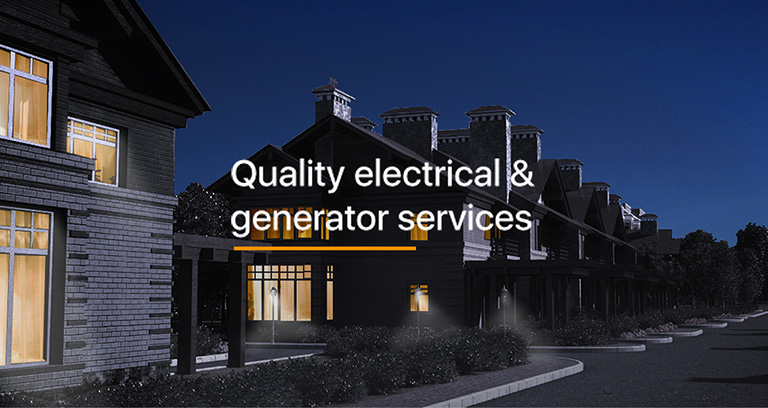
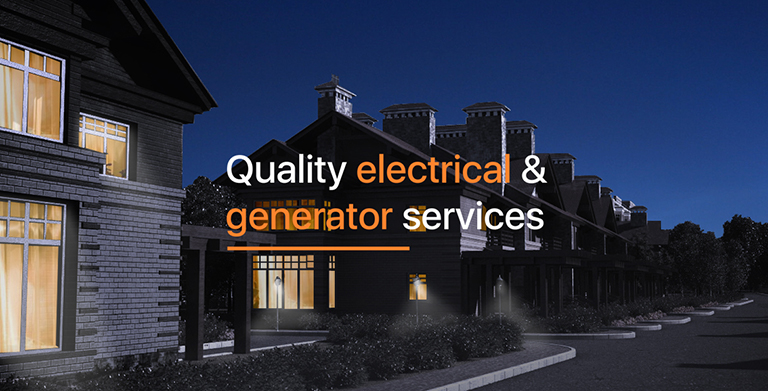
Change promo photo add some changes into text, h1 and other

diff --git a/src/_html_block/reviews/reviews.html b/src/_html_block/reviews/reviews.html
@@ -8,8 +8,9 @@
           <div class="reviews__info">
             <figure class="reviews__img">
               <picture>
+                <source srcset="img/reviews/sahola1024.jpg" media="(max-width: 1024px) and (min-width: 768px)">
                 <source srcset="img/reviews/sahola320.jpg" media="(max-width: 767px)">
-                <source srcset="img/reviews/sahola768.jpg" media="(max-width: 1100px)">
+                <source srcset="img/reviews/sahola320p.jpg" media="(max-width: 767px) and (orientation: portrait)">
                 <img src="img/reviews/sahola.jpg" alt="Olga Sohrau">
               </picture>
             </figure>
@@ -33,9 +34,10 @@
           <div class="reviews__info">
             <figure class="reviews__img">
               <picture>
-                <source srcset="img/reviews/electrika2-320.jpg" media="(max-width: 767px)">
-                <source srcset="img/reviews/electrika2-768.jpg" media="(max-width: 1100px)">
-                <img src="img/reviews/electrika2.jpg" alt="Electrika">
+                <source srcset="img/reviews/electrica2-1024.jpg" media="(max-width: 1024px) and (min-width: 768px)">
+                <source srcset="img/reviews/electrica2-320.jpg" media="(max-width: 767px) and (orientation: landscape)">
+                <source srcset="img/reviews/electrica2-320p.jpg" media="(max-width: 767px) and (orientation: portrait)">
+                <img src="img/reviews/electrica2.jpg" alt="Electrical">
               </picture>
             </figure>
             <a href="http://electricandgeneratorservice.com" rel="nofollow" class="reviews__link reviews__link--info">www.electricandgeneratorservice.com</a>
@@ -56,9 +58,10 @@
           <div class="reviews__info">
             <figure class="reviews__img">
               <picture>
-                <source srcset="img/reviews/electrika320.jpg" media="(max-width: 767px)">
-                <source srcset="img/reviews/electrika768.jpg" media="(max-width: 1100px)">
-                <img src="img/reviews/electrika.jpg" alt="Electrika">
+                <source srcset="img/reviews/electrica-1024.jpg" media="(max-width: 1024px) and (min-width: 768px)">
+                <source srcset="img/reviews/electrica320.jpg" media="(max-width: 767px)">
+                <source srcset="img/reviews/electrica320p.jpg" media="(max-width: 767px) and (orientation: portrait)">
+                <img src="img/reviews/electrica.jpg" alt="Electrical">
               </picture>
             </figure>
             <a href="http://electricandgeneratorservice.com" class="reviews__link reviews__link--info" rel="nofollow">www.electricandgeneratorservice.com</a>

diff --git a/src/_html_block/promo/promo.html b/src/_html_block/promo/promo.html
@@ -1,21 +1,25 @@
 <section class="promo" id="promo">
   <figure class="promo__img">
     <picture class="promo__img-1">
+      <source srcset="img/promo/bg1-1024.jpg" media="(max-width: 1024px) and (min-width: 768px)">
       <source srcset="img/promo/bg1-320.jpg" media="(max-width: 767px) and (orientation: portrait)">
       <source srcset="img/promo/bg1-320land.jpg" media="(max-width: 767px) and (orientation: landscape)">
       <img src="img/promo/bg1.jpg" alt="kfl webdesign srairs">
     </picture>
     <picture class="promo__img-2">
+      <source srcset="img/promo/bg2-1024.jpg" media="(max-width: 1024px) and (min-width: 768px)">
       <source srcset="img/promo/bg2-320.jpg" media="(max-width: 767px) and (orientation: portrait)">
       <source srcset="img/promo/bg2-320land.jpg" media="(max-width: 767px) and (orientation: landscape)">
       <img src="img/promo/bg2.jpg" alt="kfl webdesign srairs first step">
     </picture>
     <picture class="promo__img-3">
+      <source srcset="img/promo/bg3-1024.jpg" media="(max-width: 1024px) and (min-width: 768px)">
       <source srcset="img/promo/bg3-320.jpg" media="(max-width: 767px) and (orientation: portrait)">
       <source srcset="img/promo/bg3-320land.jpg" media="(max-width: 767px) and (orientation: landscape)">
       <img src="img/promo/bg3.jpg" alt="kfl webdesign srairs second step">
     </picture>
     <picture class="promo__img-4">
+      <source srcset="img/promo/bg4-1024.jpg" media="(max-width: 1024px) and (min-width: 768px)">
       <source srcset="img/promo/bg4-320.jpg" media="(max-width: 767px) and (orientation: portrait)">
       <source srcset="img/promo/bg4-320land.jpg" media="(max-width: 767px) and (orientation: landscape)">
       <img src="img/promo/bg4.jpg" alt="kfl webdesign srairs third step">
@@ -28,7 +32,7 @@
       <span class="promo__slogan-3">business</span>
     </p>
     <div class="promo__info">
-      <h2 class="promo__title">Creative websites</h2>
+      <h1 class="promo__title">Creative websites</h1>
       <p class="promo__info-text">for small business from <span class="promo__price">$ 5000</span></p>
       <a href="#who" class="btn btn--red promo__btn">Level up</a>
     </div>

diff --git a/src/_html_block/works/works.html b/src/_html_block/works/works.html
@@ -4,8 +4,8 @@
     <div class="works__item works__item--bottom">
       <a href="work-diagno-check.html" class="works__link">
         <picture>
+          <source srcset="img/works/diagno1024.jpg" media="(min-width: 768px) and (max-width: 1024px)">
           <source srcset="img/works/diagno320.jpg" media="(max-width: 420px)">
-          <source srcset="img/works/diagno768.jpg" media="(min-width: 768px) and (max-width: 990px)">
           <img src="img/works/diagno.jpg" alt="Diagno Checker">
         </picture>
       </a>
@@ -13,8 +13,8 @@
     <div class="works__item works__item--top">
       <a href="work-sahola.html" class="works__link">
         <picture>
+          <source srcset="img/works/sahola1024.jpg" media="(min-width: 768px) and (max-width: 1024px)">
           <source srcset="img/works/sahola320.jpg" media="(max-width: 420px)">
-          <source srcset="img/works/sahola768.jpg" media="(min-width: 768px) and (max-width: 990px)">
           <img src="img/works/sahola.jpg" alt="Sahola">
         </picture>
       </a>
@@ -22,8 +22,8 @@
     <div class="works__item works__item--bottom">
       <a href="work-quality-electrical-and-generator-services.html" class="works__link">
         <picture>
+          <source srcset="img/works/electrica1024.jpg" media="(min-width: 768px) and (max-width: 1024px)">
           <source srcset="img/works/electrica320.jpg" media="(max-width: 420px)">
-          <source srcset="img/works/electrica768.jpg" media="(min-width: 768px) and (max-width: 990px)">
           <img src="img/works/electrica.jpg" alt="Electrica">
         </picture>
       </a>

diff --git a/src/_html_block/present/present.html b/src/_html_block/present/present.html
@@ -4,14 +4,17 @@
     <h2 class="present__animation-title">Outstanding decisions</h2>
     <figure class="present__img">
       <picture class="present__img-1">
+        <source srcset="img/present/night1024.jpg" media="(max-width: 1024px) and (min-width: 768px)">
         <source srcset="img/present/night320.jpg" media="(max-width: 767px)">
         <img src="img/present/night.jpg" alt="Night present">
       </picture>
       <picture class="present__img-2">
+        <source srcset="img/present/light1024.jpg" media="(max-width: 1024px) and (min-width: 768px)">
         <source srcset="img/present/light320.jpg" media="(max-width: 767px)">
         <img src="img/present/light.jpg" alt="Night light present">
       </picture>
       <picture class="present__img-3">
+        <source srcset="img/present/day1024.jpg" media="(max-width: 1024px) and (min-width: 768px)">
         <source srcset="img/present/day320.jpg" media="(max-width: 767px)">
         <img src="img/present/day.jpg" alt="Day present">
       </picture>

diff --git a/src/_html_block/case/design/design-electrical.html b/src/_html_block/case/design/design-electrical.html
@@ -1,6 +1,6 @@
 <section class="design-electrical">
   <h2 class="design-electrical__title">Design</h2>
-  <p>The main demand to a website design is that it should be plain and simple. That’s why classical colors have been chosen – comfort, elegance, simplicity. The main feature of the website became the banner. It reflects the work of the company. The slogan “Lighting your home” completely reflects what a designer wanted to say by using graphical design.</p>
+  <p>The main demand to a website design is that it should be plain and simple. That’s why classical colors have been chosen – comfort, elegance, simplicity. The main feature of the website became the banner. It reflects the work of the company. The slogan “Light up your home” completely reflects what a designer wanted to say by using graphical design.</p>
   <div class="design-electrical__img">
     <picture>
       <source srcset="img/case/electrical/design/site320.jpg" media="(max-width: 480px)">

diff --git a/src/_html_block/reviews/reviews.scss b/src/_html_block/reviews/reviews.scss
@@ -177,7 +177,7 @@
       &::after {
         height: 72%;
         .slick-active & {
-          transform: perspective(1000px) rotateY(32deg);
+          transform: perspective(1000px) rotateY(20deg);
         }
       }
     }
@@ -230,6 +230,27 @@
     }
     &__button {
       display: none;
+    }
+  }
+}
+
+@media #{$smart} and (orientation: portrait) {
+  .reviews {
+    &__info {
+      display: block;
+    }
+    &__img {
+      max-width: 200px;
+      min-height: 200px;
+      margin: 0 0 20px 20px;
+    }
+    &__link--info {
+      text-align: left;
+    }
+    &__slide {
+      &::after {
+        height: 62%;
+      }
     }
   }
 }

diff --git a/src/_html_block/case/promo/promo-checker.html b/src/_html_block/case/promo/promo-checker.html
@@ -1,6 +1,6 @@
 <section class="promo-checker">
   <div class="promo-checker__descr">
-    <h2 class="promo-checker__title promo-checker__title--white">DIAGNO CHECK</h2>
+    <h1 class="promo-checker__title promo-checker__title--white">DIAGNO CHECK</h1>
     <p class="promo-checker__text promo-checker__text--white">Innovative on-the-go concept device that measures blood sugar level. It is very easy to perform a check with Diagno Check due to a compact discreet form.<span class="promo-checker__hidden">Each detail created by the demands of diabetes patients.</span></p>
   </div>
   <div class="promo-checker__task">

diff --git a/src/_html_block/case/typography/typography-electrical.html b/src/_html_block/case/typography/typography-electrical.html
@@ -1,6 +1,6 @@
 <section class="typography-electrical">
   <div class="typography-electrical__task">
-    <h2 class="typography-electrical__title">Task</h2>
+    <h1 class="typography-electrical__title">Task</h1>
     <p>Create a website for the company which offers electrical and generator services. The goal is to enter the market and make attractive presentation of services that are being offered. Make a suitable design for the website. The main goal of the website is to generate more leads.</p>
   </div>
   <div class="typography-electrical__img">

diff --git a/src/_html_block/form/form.scss b/src/_html_block/form/form.scss
@@ -174,12 +174,11 @@
     letter-spacing: $letter-spacing-25;
   }
 }
+
 @media #{$tablet} {
   .form {
     &-wrap {
       padding: 30px 0;
-
-      background-image: url(#{$img-path}/form/bg768.jpg);
     }
     &-title {
       margin: 0 0 30px;
@@ -191,6 +190,15 @@
     }
   }
 }
+
+@media #{$google} {
+  .form {
+    &-wrap {
+      background-image: url(#{$img-path}/form/bg1024.jpg);
+    }
+  }
+}
+
 @media #{$smart} {
   .form {
     &--present {

diff --git a/src/_html_block/process/process.scss b/src/_html_block/process/process.scss
@@ -160,8 +160,6 @@
 @media #{$tablet} {
   .process {
     padding: 20px 26px 50px;
-
-    background-image: url(#{$img-path}/process/bg768.jpg);
     &__title {
       margin: 0 0 30px 45px;
     }
@@ -192,6 +190,13 @@
     }
   }
 }
+
+@media #{$google} {
+  .process {
+    background-image: url(#{$img-path}/process/bg1024.jpg);
+  }
+}
+
 @media #{$smart} {
   .process {
     padding: 37px $smart-padding 30px;

diff --git a/src/_html_block/who/who.scss b/src/_html_block/who/who.scss
@@ -1,5 +1,6 @@
 .who {
   position: relative;
+
   padding: 35px 0 50px;
   &--active {
     &::after {
@@ -25,10 +26,11 @@
     position: relative;
     z-index: 10;
 
+    padding: 0 40px 0 0;
+
     text-align: right;
 
     @include main-title(0 15px);
-    padding: 0 40px 0 0;
   }
   &__info {
     position: relative;

diff --git a/src/_html_block/who/who.html b/src/_html_block/who/who.html
@@ -6,6 +6,7 @@
     </div>
     <figure class="who__img">
       <picture>
+        <source srcset="img/who/who1024.jpg" media="(max-width: 1024px) and (min-width: 768px)">
         <source srcset="img/who/who320.jpg" media="(max-width: 480px)">
         <img src="img/who/who.jpg" alt="Who we are">
       </picture>
